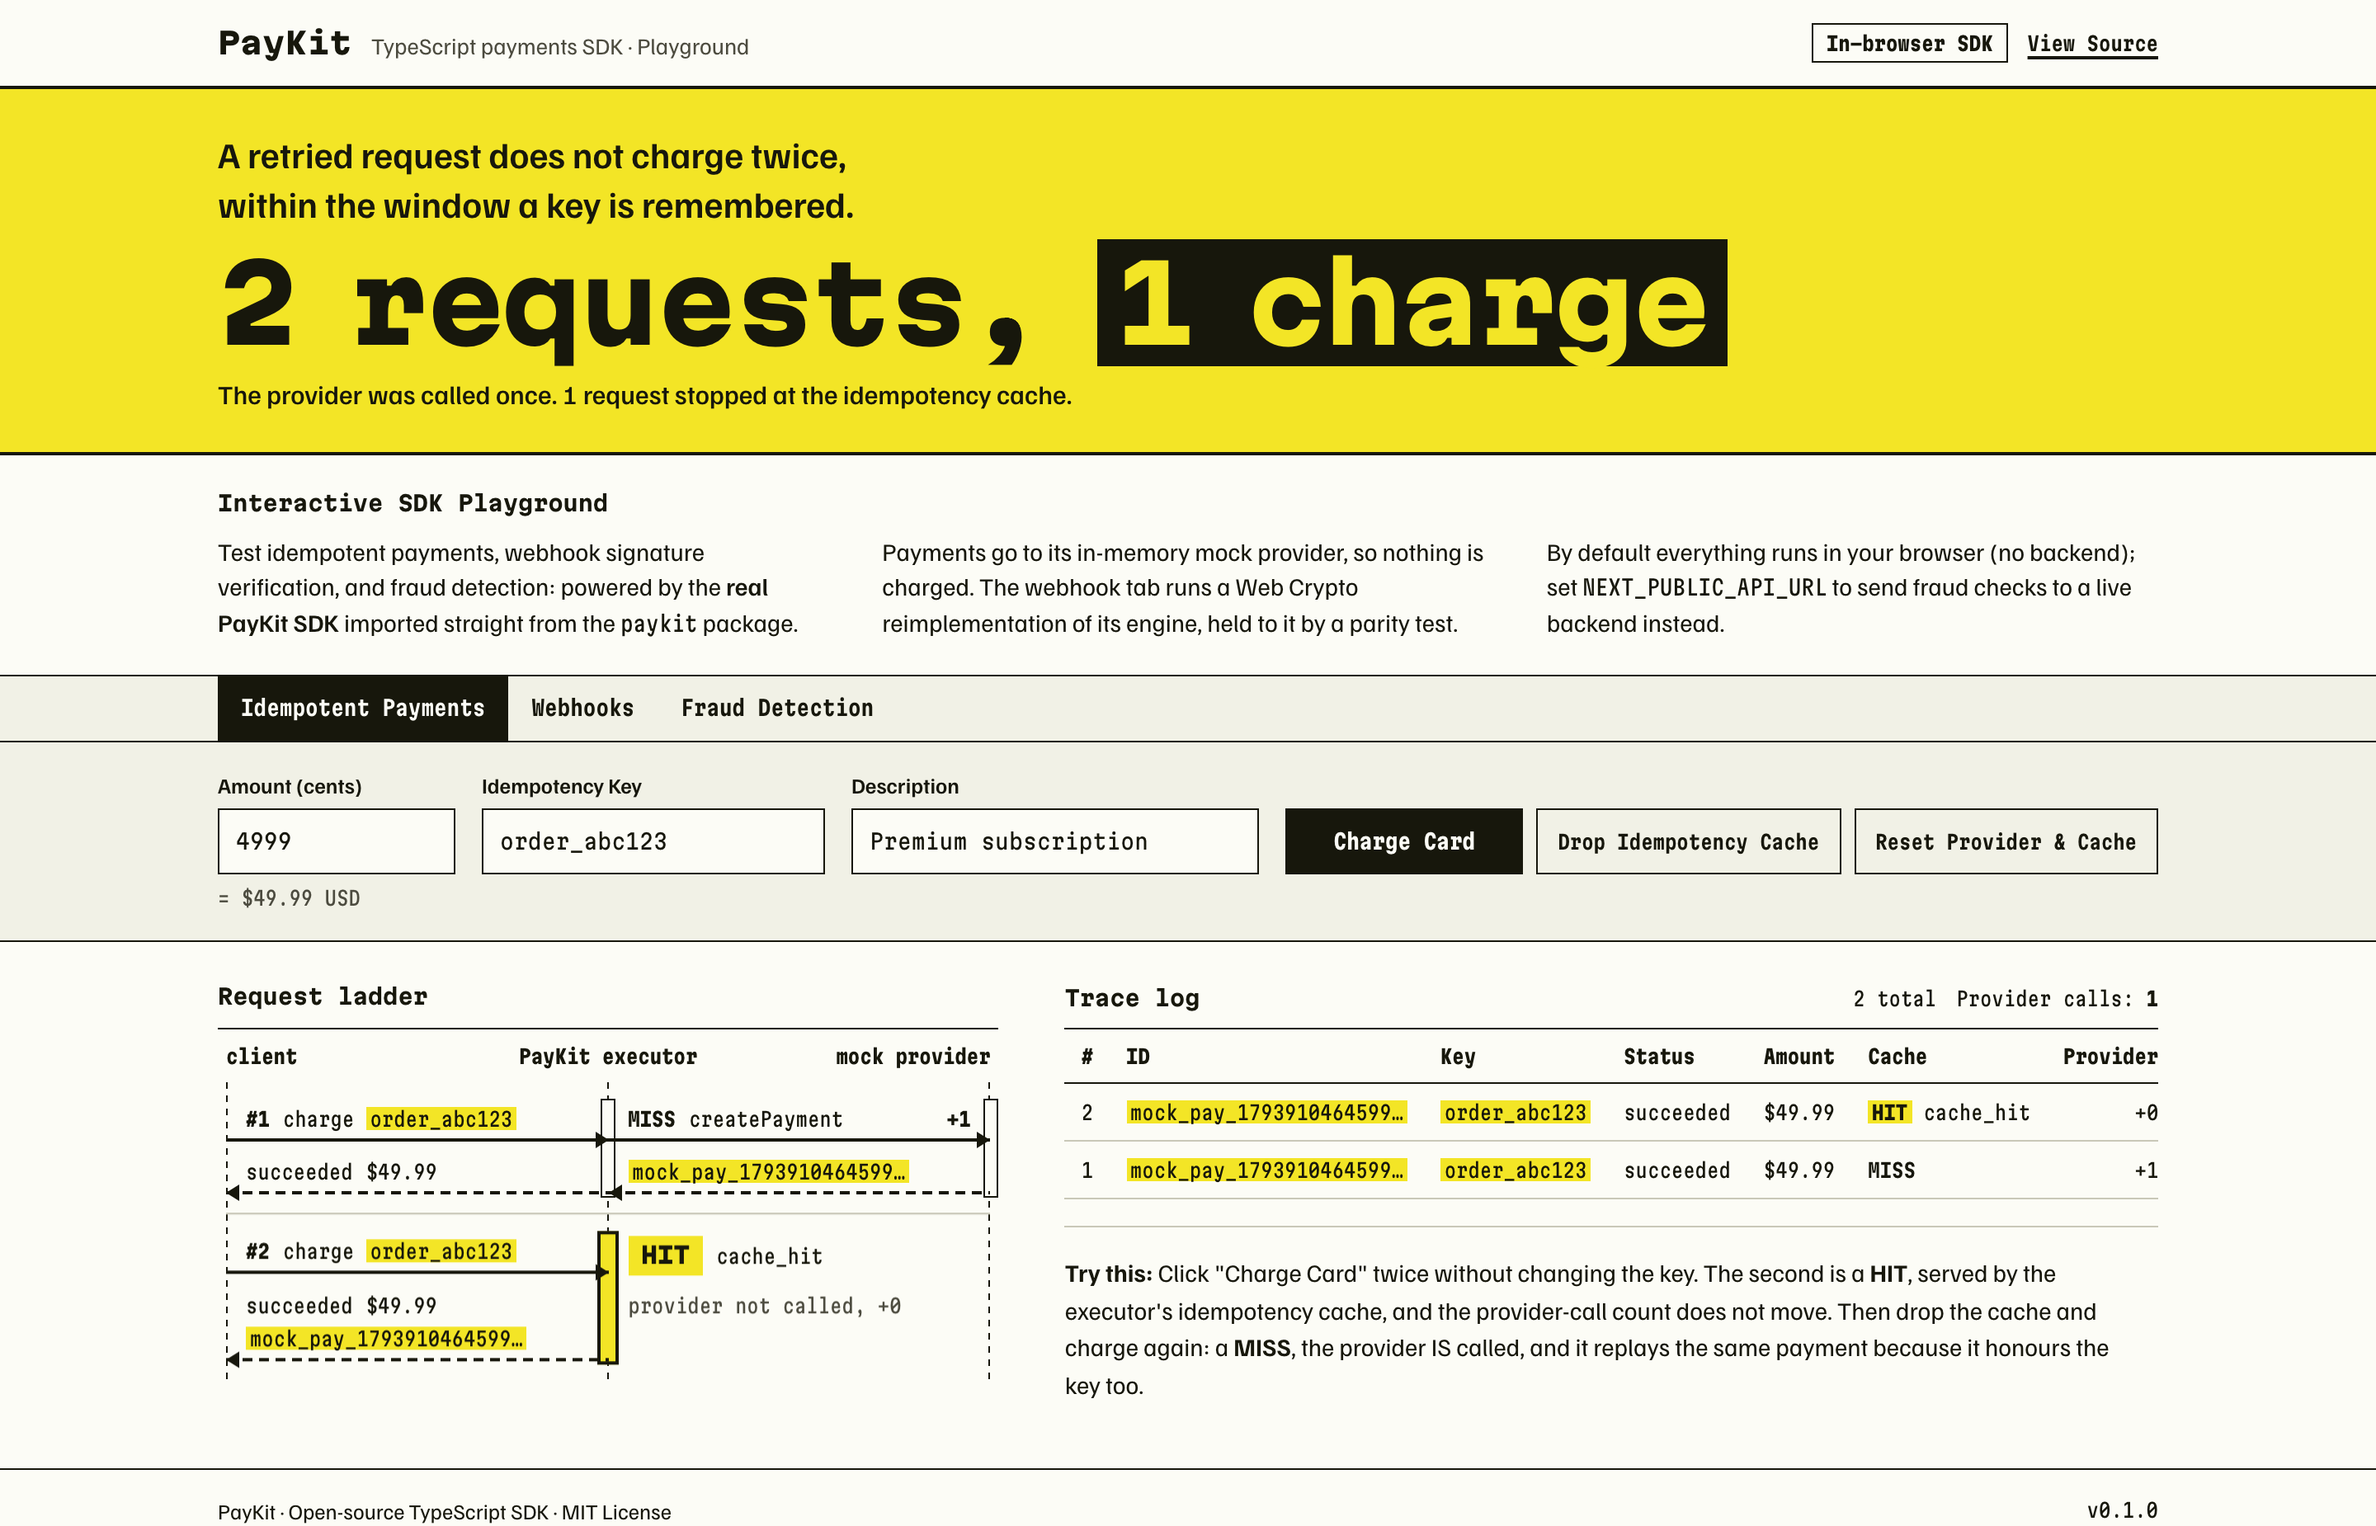
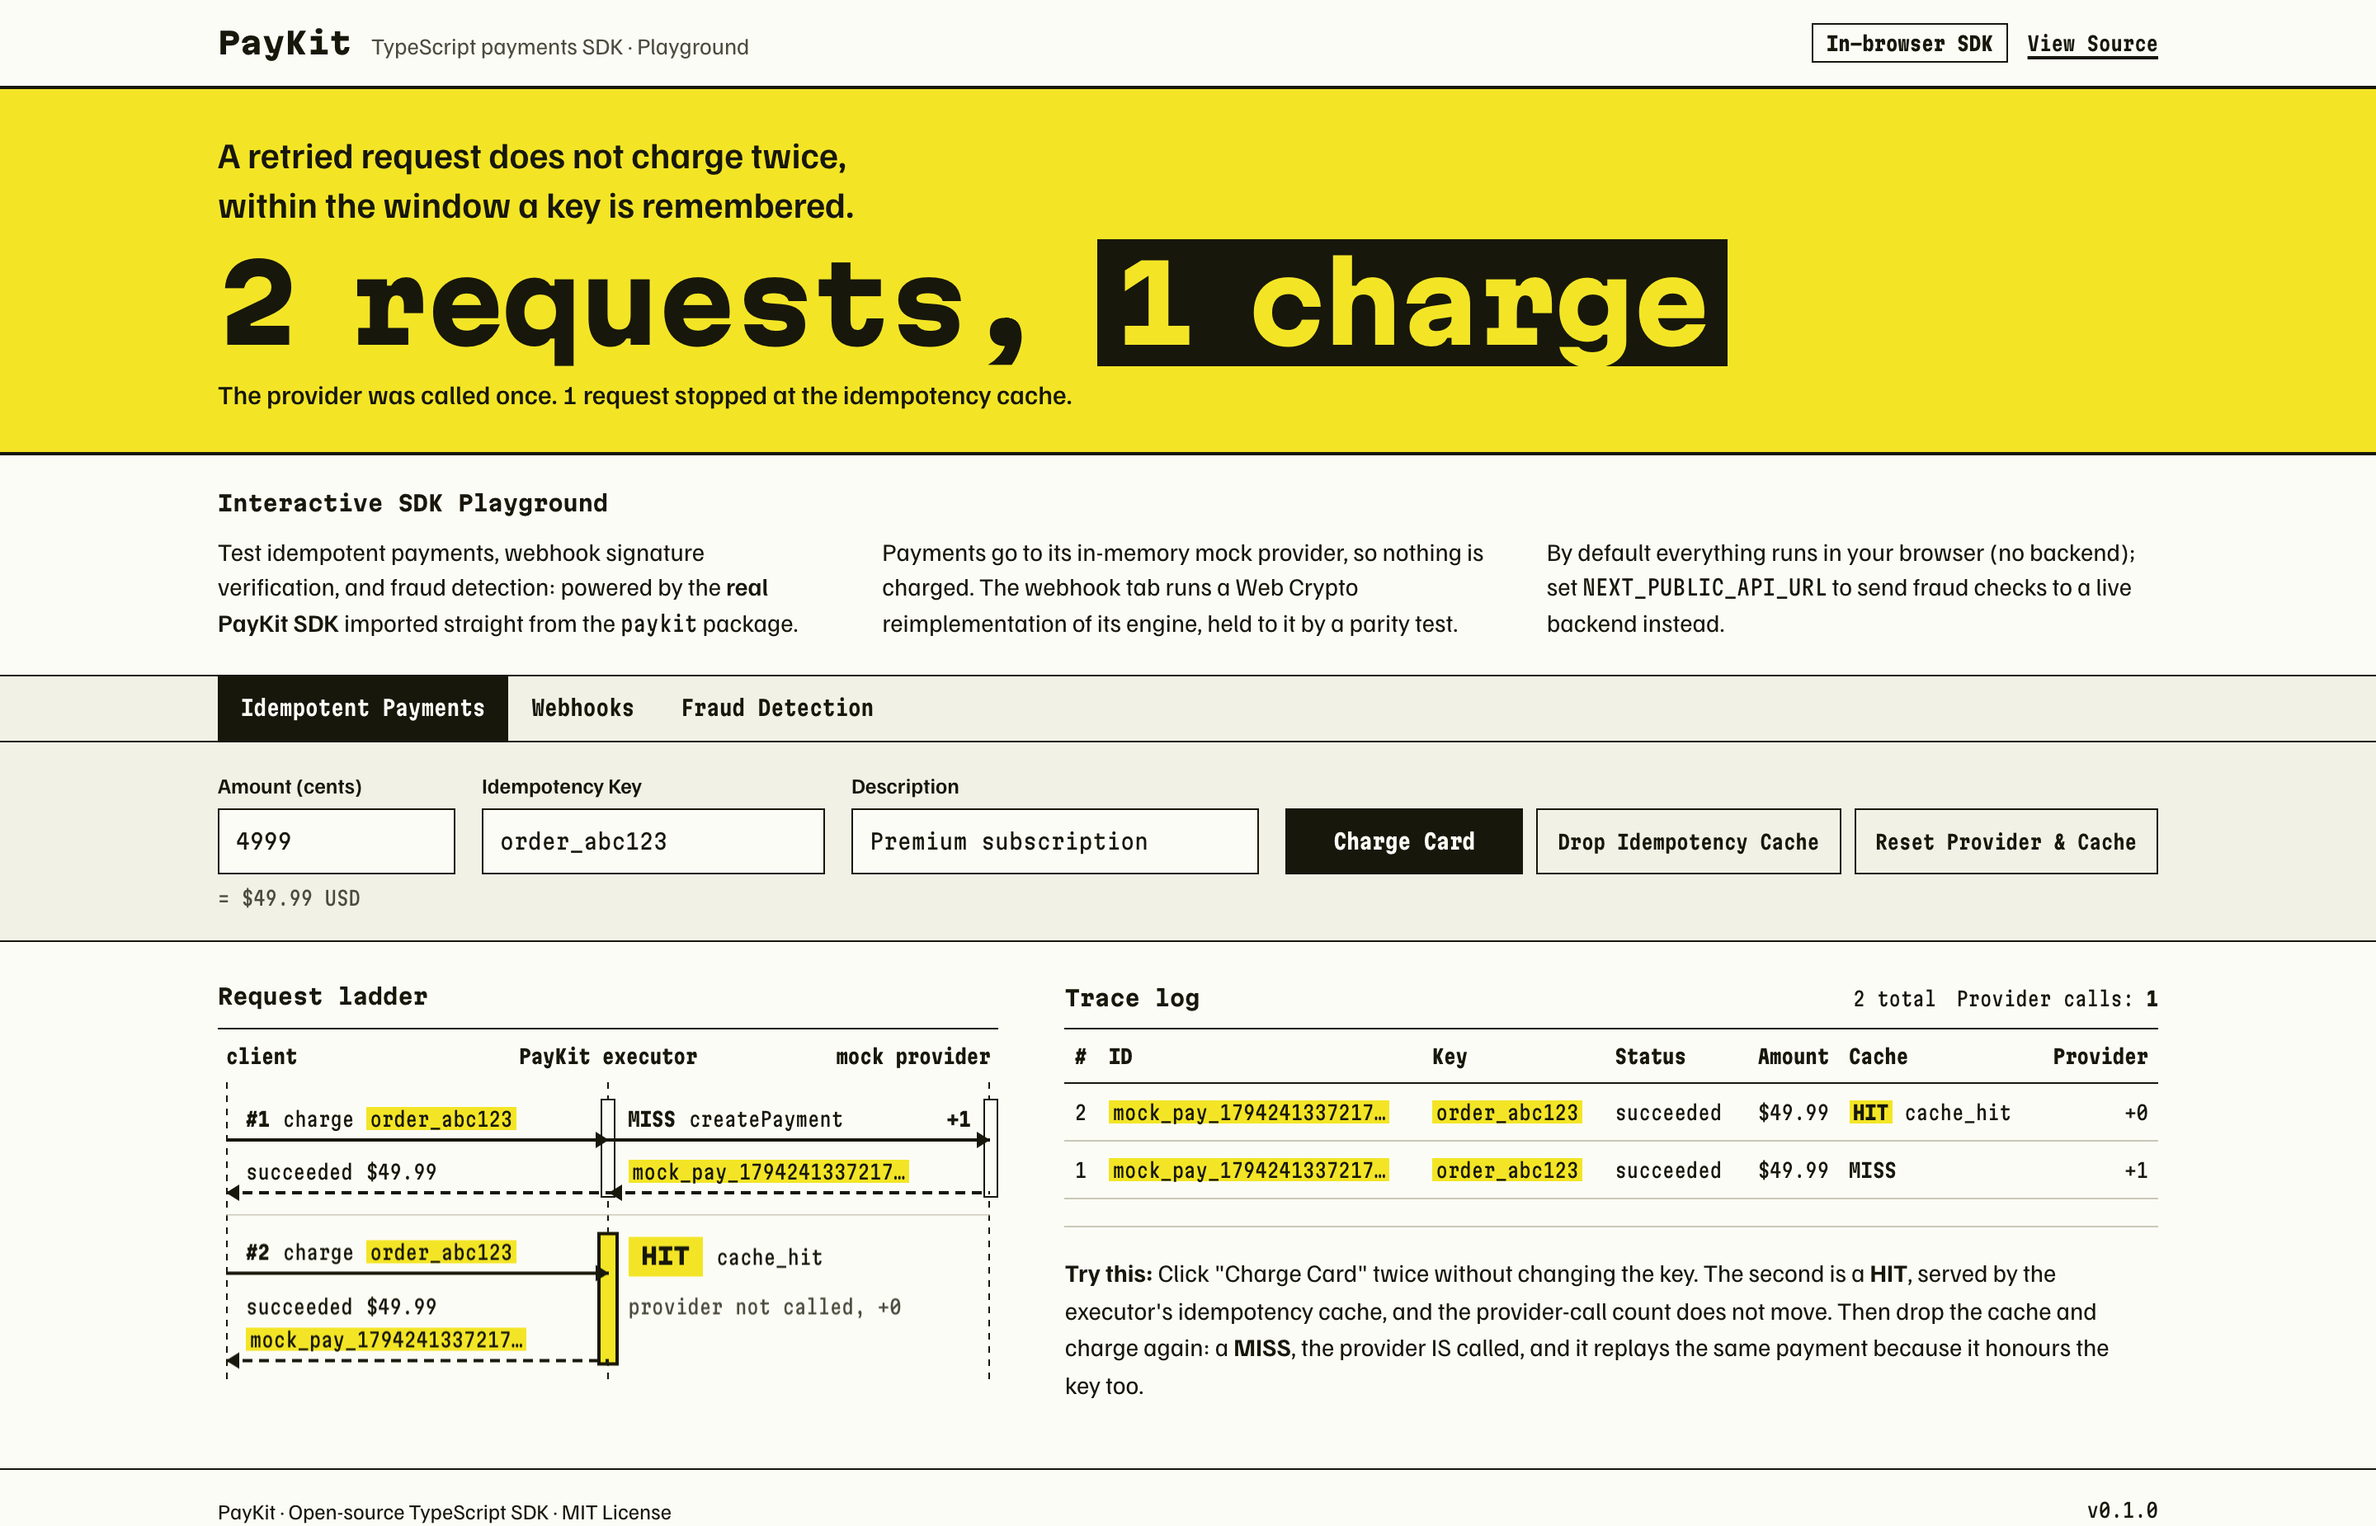
fix(frontend): fit the playground to phones and desktops; card URL is the site
Four defects from a cross-browser pass of the deployed playground:

- og:url was hard-coded to the GitHub repository, so a shared link
  unfurled as a link to the source. It now comes from the same site URL as
  og:image (NEXT_PUBLIC_SITE_URL, else Vercel's production domain), and a
  build with neither has no og:url. A build with the deployed URL emits it.
- iOS Safari zoomed the page into the 13px form fields on focus. Below the
  sm breakpoint every .input (all text fields and the select) is 16px.
- The tab strip was 332px in a 328px box on a 360px screen. Below sm a
  tab's side padding is 3px instead of 5px.
- The trace log's table was 673px in a 663px column at 1440px (628px at
  1180px), so it scrolled sideways on a desktop. Cells are 6px a side
  instead of 10px; a default charge's rows now need about 617px. When the
  table still outgrows its box (always on a phone, or a long key just
  above 1180px), a hint above it says to scroll sideways. It is shown only
  while the overflow is measured, never assumed from the width.

Measured after in production builds: the log fits at 1180, 1280 and 1440
in Chromium, WebKit and Firefox; at 360, 390 and 412 the tabs fit, the
hint shows, and fields are 16px.

The smoke driver gains five checks: og:url on og:image's origin; the log
fits at 1280 and 1440 with a HIT row present, and at 1180 the hint shows
exactly when the log scrolls; at 360 the tab strip fits, the log scrolls
[…]

diff --git a/frontend/app/page.tsx b/frontend/app/page.tsx
@@ -337,6 +337,22 @@ function PaymentTab({ executor, provider, store, ledger, setLedger }: {
   const keyCounts = tally(answered, (a) => a.intent.idempotencyKey);
   const idCounts = tally(answered, (a) => a.intent.id);
 
+  // The trace log scrolls sideways when its columns are wider than its box (on
+  // a phone, always). The hint says so only while that is measured to be true.
+  const traceRef = useRef<HTMLDivElement>(null);
+  const [traceScrolls, setTraceScrolls] = useState(false);
+  useEffect(() => {
+    const box = traceRef.current;
+    if (!box) return;
+    const measure = () => setTraceScrolls(box.scrollWidth > box.clientWidth);
+    const watch = new ResizeObserver(measure);
+    watch.observe(box);
+    // The first charge swaps the empty-state line for the table: watch that too.
+    if (box.firstElementChild) watch.observe(box.firstElementChild);
+    measure();
+    return () => watch.disconnect();
+  }, [answered.length]);
+
   return (
     <>
       <div className="bench !border-t-0">
@@ -422,7 +438,12 @@ function PaymentTab({ executor, provider, store, ledger, setLedger }: {
                 <span>Provider calls: <span aria-label="Provider calls" className="font-bold">{ledger.providerCalls}</span></span>
               </div>
             </div>
-            <div className="max-h-96 overflow-auto border-t-[1.5px] border-ink" tabIndex={0} role="region" aria-labelledby="trace-log">
+            {traceScrolls && (
+              <p data-scroll-hint className="mono-tight pb-1.5 text-xs leading-5 text-ink-2">
+                Scroll the log sideways for every column →
+              </p>
+            )}
+            <div ref={traceRef} className="max-h-96 overflow-auto border-t-[1.5px] border-ink" tabIndex={0} role="region" aria-labelledby="trace-log">
               {answered.length === 0 ? (
                 <p className="py-6 text-[0.9375rem]">
                   No charges yet. Click &quot;Charge Card&quot; to start.

diff --git a/frontend/app/globals.css b/frontend/app/globals.css
@@ -130,6 +130,14 @@
     color: var(--paper);
   }
 
+  /* The three labels need about 302px of text: at 5px a side they overflow a
+     360px screen's 328px strip, so phones get 3px. */
+  @media (max-width: 639.98px) {
+    .tab {
+      padding-inline: 0.1875rem;
+    }
+  }
+
   /* ── Controls ── */
   .field-label {
     display: block;
@@ -159,6 +167,13 @@
     font-family: var(--font-mono), ui-monospace, monospace;
     font-stretch: 87.5%;
     font-size: 0.8125rem;
+  }
+
+  /* iOS Safari zooms the page into any field under 16px when it takes focus. */
+  @media (max-width: 639.98px) {
+    .input {
+      font-size: 1rem;
+    }
   }
 
   .input::placeholder {
@@ -471,11 +486,16 @@
     line-height: 1.25rem;
   }
 
+  /* Cells are 6px a side. At 10px a cache hit's row made the seven columns
+     673px, wider than the log's column on a desktop (663px at 1280 and 1440,
+     628px at 1180); at 6px they need about 617px. A key longer than the
+     default can still outgrow the column just above 1180px: the log then
+     scrolls and the hint above it says so. */
   .trace thead th {
     position: sticky;
     top: 0;
     background: var(--paper);
-    padding: 0.375rem 0.625rem;
+    padding: 0.375rem;
     text-align: left;
     font-weight: 700;
     border-bottom: 1.5px solid var(--ink);
@@ -483,7 +503,7 @@
 
   .trace td,
   .trace tbody th {
-    padding: 0.4375rem 0.625rem;
+    padding: 0.4375rem 0.375rem;
     text-align: left;
     font-weight: 400;
     border-bottom: 1px solid var(--rule);

diff --git a/frontend/app/layout.tsx b/frontend/app/layout.tsx
@@ -45,7 +45,9 @@ export const metadata: Metadata = {
     title: "PayKit: open-source TypeScript payments SDK",
     description:
       "Idempotent payments, HMAC webhooks and fraud detection: the real TypeScript SDK, runnable in your browser",
-    url: "https://github.com/ROROK20/PayKit",
+    // The card's URL is this deployment's, like its image; the repository is
+    // linked from the page. With no site URL there is neither.
+    ...(siteUrl ? { url: siteUrl } : {}),
     siteName: "PayKit",
     type: "website",
     ...(siteUrl ? { images: [{ url: "/og.png", width: 1200, height: 630, alt: "PayKit SDK playground" }] } : {}),

diff --git a/README.md b/README.md
@@ -37,7 +37,7 @@ console.log(first.id === retry.id); // true
 <p align="center">
   <img src="docs/screenshot.png" alt="PayKit playground, production build running the real SDK in the browser: two charges with one idempotency key — the second is a cache HIT, and the provider-call count stays at 1" width="100%">
   <br>
-  <em>The playground's payments tab: the same idempotency key returns a cache <strong>HIT</strong> and the mock provider is called once, not twice. Captured 2026-11-05 from the production build by <code>npm run capture</code>.</em>
+  <em>The playground's payments tab: the same idempotency key returns a cache <strong>HIT</strong> and the mock provider is called once, not twice. Captured 2026-11-09 from the production build by <code>npm run capture</code>.</em>
 </p>
 
 ---
